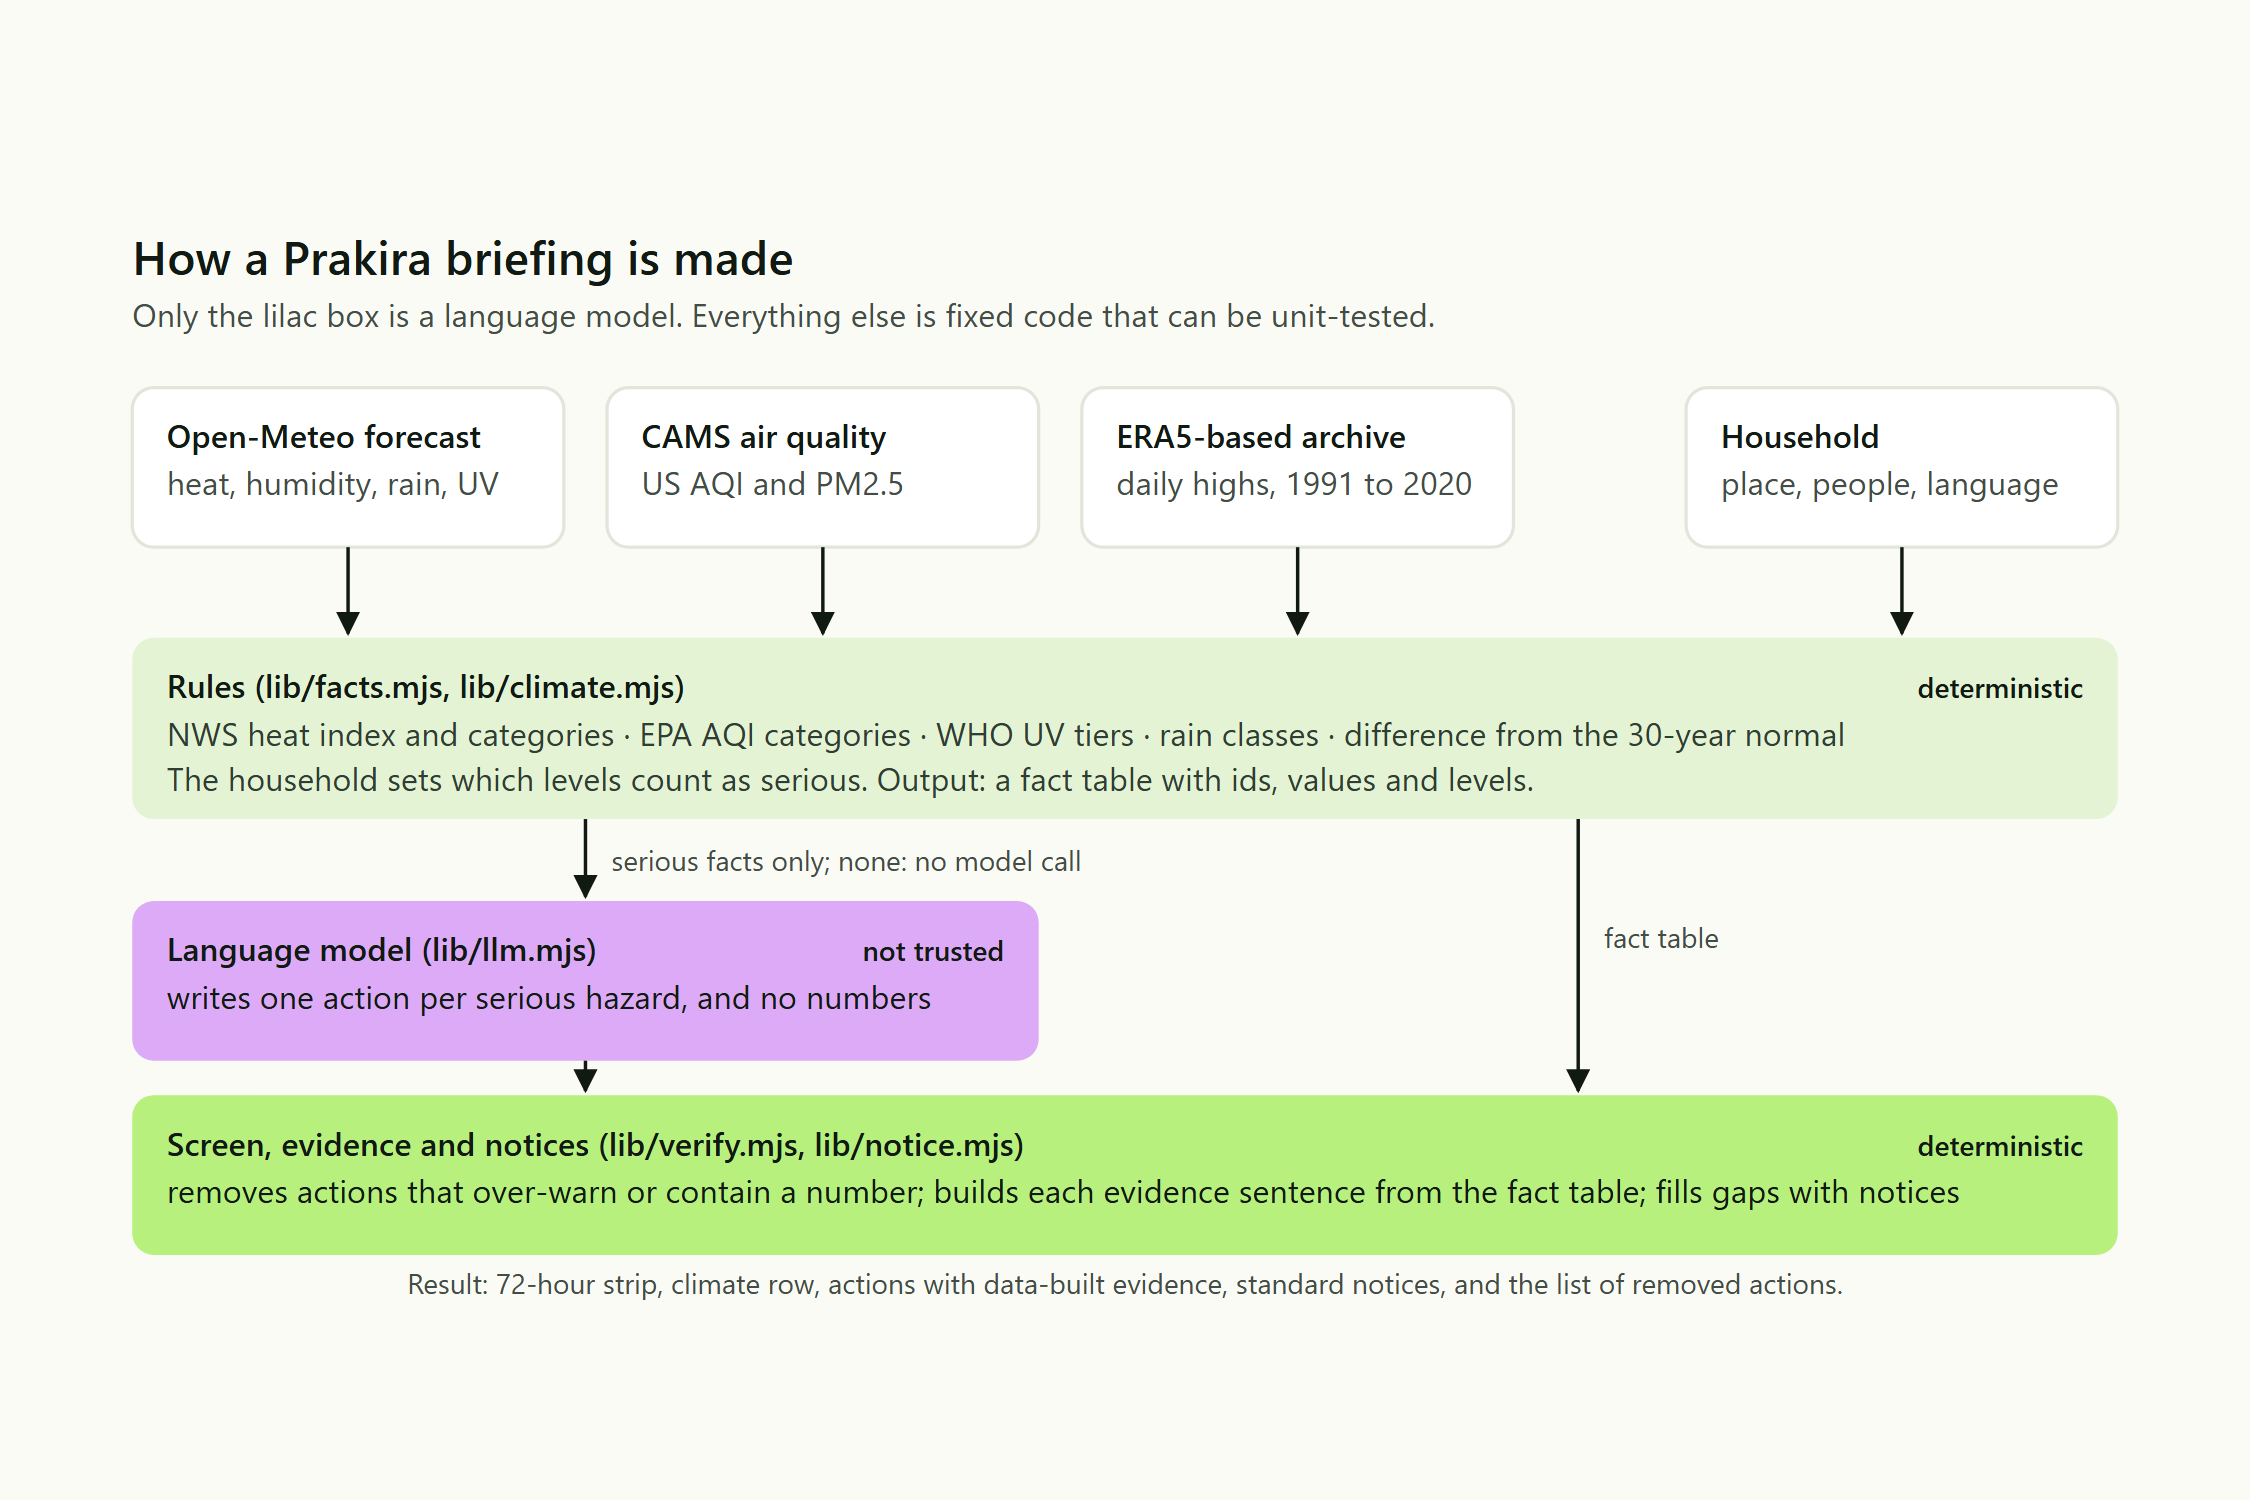
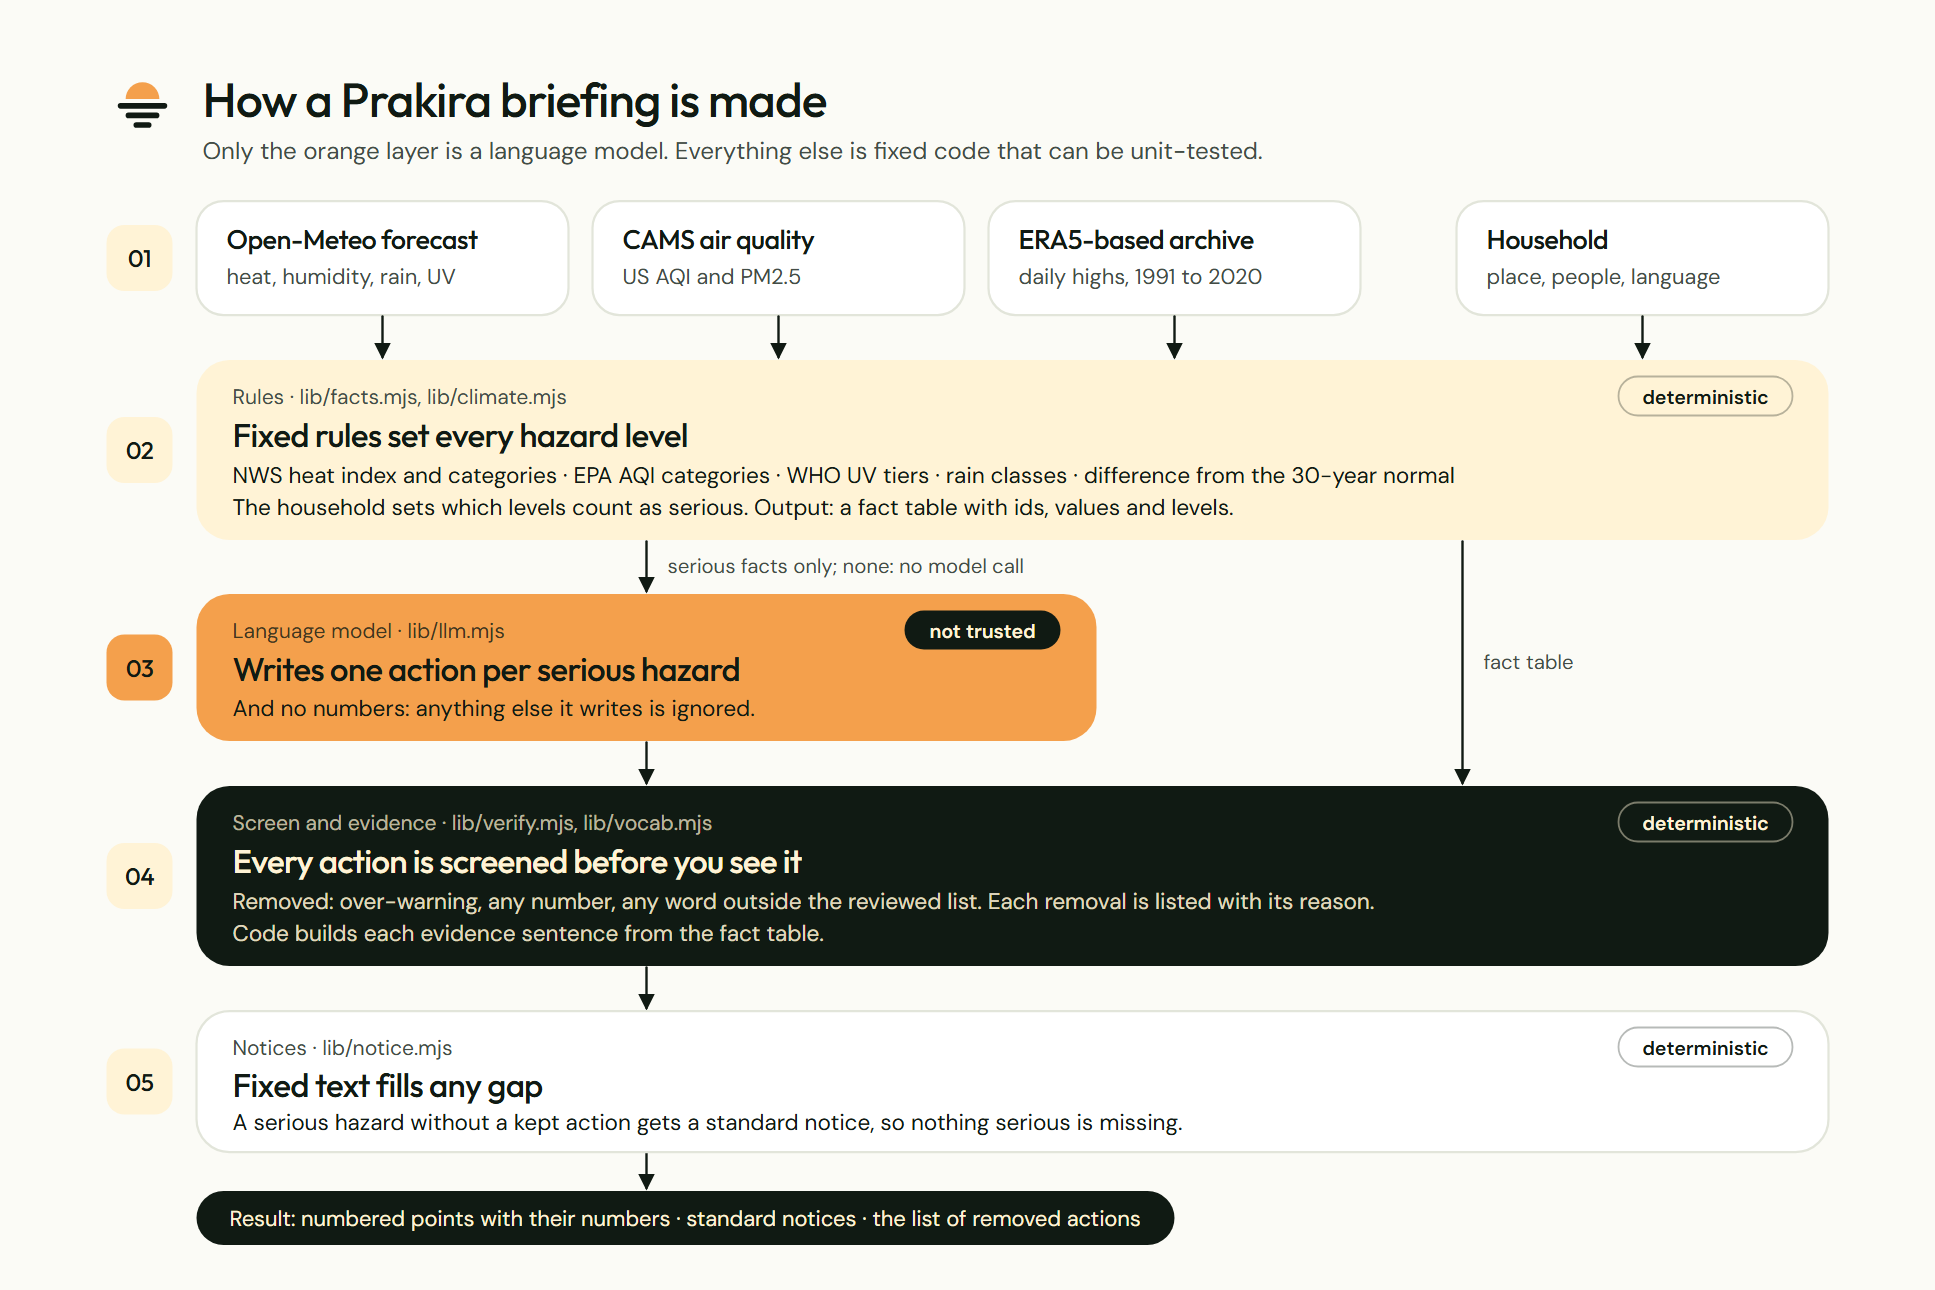
docs: architecture diagram in the look of the app
Five numbered layers in the brand palette; the model is the one orange
card. The README shows a PNG rendered with the brand fonts, since
GitHub does not load web fonts inside an SVG.

diff --git a/PLAN.md b/PLAN.md
@@ -564,6 +564,7 @@ The script is in `docs/video-script.md` (rewritten 2026-10-09 for the points-fir
 - **2026-10-09 (session 8).** Video plan agreed with the owner: English narration, webcam only in the first and last shot, scripted screen capture by the assistant, assembly with `ffmpeg` (present on this PC; no transcription tool found). Script written: `docs/video-script.md`, eight shots, about 400 words. Not tested: the scripted capture and the join. **Next action: the owner reads the script and records the eight takes; the assistant trials a 10-second capture and join.**
 
 - **2026-10-10 (session 9).** The owner sent the "What to submit" list and the Devpost form. `docs/devpost-draft.md` is now one paste-ready block per form field, with a check against the six required items; `docs/devpost-about.md` is the "About the project" text (no tables), rewritten for the points-first page, with the sections the list asks for (problem and target users, technical approach and components, real-world impact). Removed from the README and the Devpost text: a citation that is not in the literature review ("Zhao et al., 2027"), "ISO/IEC 42001 alignment", "benchmarked against WMO normals" and "conforms to WCAG 2.1 AA/AAA" (none of these was checked). `docs/screenshots/` retaken: `node scripts/ui-check.cjs https://prakira.rofihosted.space docs/screenshots` reported no overflow, 18 cells, 4 items and 3 lit cells on hover at 1280 px (English) and 375 px (Indonesian); the only console error is Cloudflare's own analytics script, blocked by the page's content security policy. Added 3:2 pictures for the Devpost gallery (`result.png`, `data.png`, `audit.png`, `architecture.png`) and `thumbnail.png`. 43 tests pass. Not verified: that Devpost renders the About text as intended (not pasted yet), and the rain-class source (section 0, open item 5). **Next action: the owner uploads the film and submits.**
+- **2026-10-10 (session 9, continued).** The owner asked for the architecture diagram in the look of the app. `docs/architecture.svg` redrawn with the brand palette and the result list's number tiles: five numbered layers (data, rules, model, screen and evidence, notices), the model as the one orange card, the screen as the ink card. `docs/screenshots/architecture.png` is the same drawing rendered with Outfit and DM Sans at 1935 x 1290 (3:2); the README now shows the PNG, because GitHub does not load web fonts inside an SVG. Checked by rendering twice, with the brand fonts and with system fonts: no text leaves its card. 43 tests pass.
 
 **Open questions for the owner**
 

diff --git a/README.md b/README.md
@@ -16,7 +16,7 @@ Open forecast data can tell you that the heat index will reach 37 °C and the ai
 
 ## How it works
 
-![Architecture](docs/architecture.svg)
+![How a Prakira briefing is made: data, rules, model, screen and evidence, notices](docs/screenshots/architecture.png)
 
 Shaped by the impact-based approach of the WMO guidelines on multi-hazard warnings (WMO-No. 1150) and the UN Sendai Framework (Target G): say what the weather will do, not only what it will be. Rules and model are kept apart, and only one layer is a language model:
 
